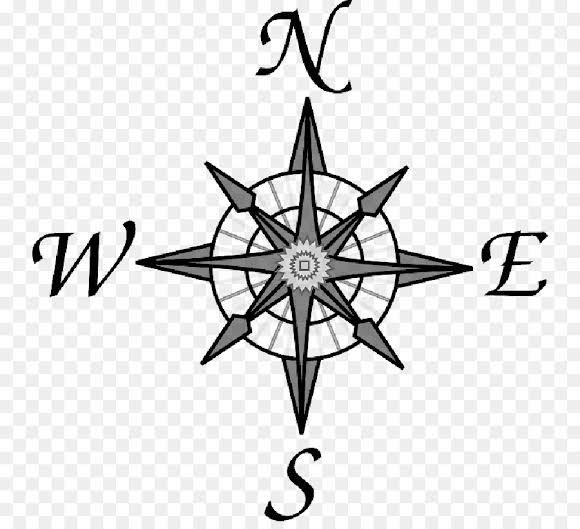
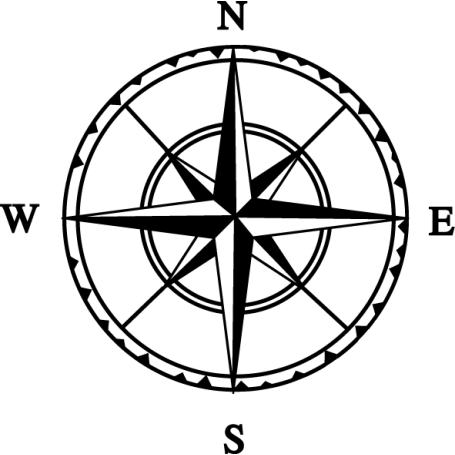
Add files via upload

Changed region(s): [[0.0, 0.0, 1.0, 1.0]]

diff --git a/index.html b/index.html
@@ -47,7 +47,7 @@
     </head>
     <body onload="onBodyLoad()">
             <h1>Example 13-2</h1>
-            <img src="compass.jpg" id="compass" align="middle" sizes="50%"/><br />
+            <img src="compass.png" id="compass" align="middle" style="width:128px;height:128px;"/><br />
             <p id="headingInfo"></p>
         </body>
         </html>
